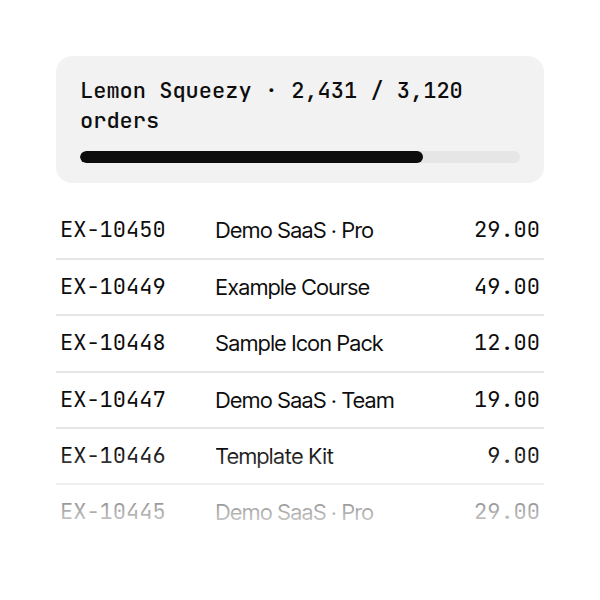
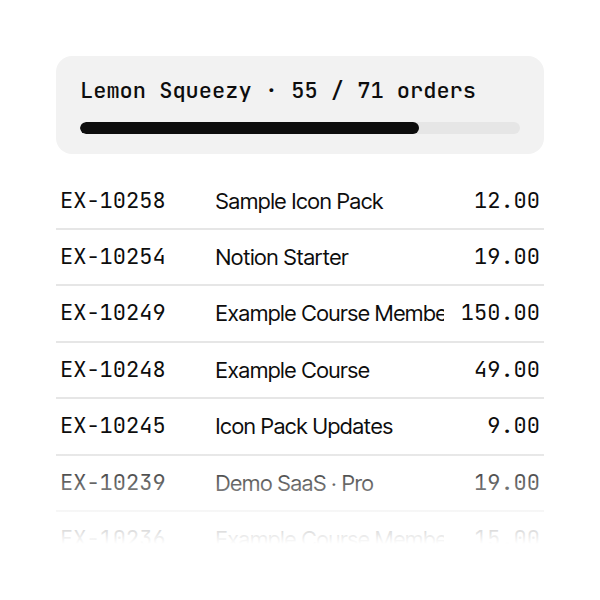
fix(site): skeptic follow-ups for mockups, hero reset, and launch copy
Re-render How it works crops from the #65 dataset, roll MRR on reset
without counting ghost rows as live, align +$ pills to mrrDelta, fix
EX-10256 Team amount and digit-strip half-glyphs, and qualify pre-launch
claims on changelog, blog, and docs.

Changed region(s): [[0.09, 0.3, 0.9, 0.87], [0.12, 0.12, 0.87, 0.27], [0.57, 0.78, 0.63, 0.87]]

diff --git a/addon/scripts/marketing-crops.html b/addon/scripts/marketing-crops.html
@@ -116,7 +116,7 @@
     }
     .bf-fill {
       height: 100%;
-      width: 78%;
+      width: 77%; /* 55/71 Lemon Squeezy orders from sample-dataset */
       background: var(--ink);
       border-radius: 999px;
     }
@@ -329,7 +329,7 @@
       <div class="src-list">
         <div class="src"><div>Lemon Squeezy<small>Connected</small></div><span class="src-state"><span class="dot">●</span> On</span></div>
         <div class="src"><div>Polar<small>Connected</small></div><span class="src-state"><span class="dot">●</span> On</span></div>
-        <div class="src"><div>Gumroad<small>Not connected</small></div><span class="src-state off"><span class="dot off">○</span> Off</span></div>
+        <div class="src"><div>Gumroad<small>Connected</small></div><span class="src-state"><span class="dot">●</span> On</span></div>
         <div class="src"><div>Stripe<small>Connected</small></div><span class="src-state"><span class="dot">●</span> On</span></div>
       </div>
     </div>
@@ -338,18 +338,18 @@
   <div class="crop step" id="crop-backfill">
     <div class="backfill">
       <div class="bf-status">
-        <div class="line">Lemon Squeezy · 2,431 / 3,120 orders</div>
+        <div class="line">Lemon Squeezy · 55 / 71 orders</div>
         <div class="bf-track"><div class="bf-fill"></div></div>
       </div>
       <div class="bf-rows">
-        <div class="bf-row"><span>EX-10450</span><span class="prod">Demo SaaS · Pro</span><span class="amt">29.00</span></div>
-        <div class="bf-row"><span>EX-10449</span><span class="prod">Example Course</span><span class="amt">49.00</span></div>
-        <div class="bf-row"><span>EX-10448</span><span class="prod">Sample Icon Pack</span><span class="amt">12.00</span></div>
-        <div class="bf-row"><span>EX-10447</span><span class="prod">Demo SaaS · Team</span><span class="amt">19.00</span></div>
-        <div class="bf-row"><span>EX-10446</span><span class="prod">Template Kit</span><span class="amt">9.00</span></div>
-        <div class="bf-row"><span>EX-10445</span><span class="prod">Demo SaaS · Pro</span><span class="amt">29.00</span></div>
-        <div class="bf-row"><span>EX-10444</span><span class="prod">Sample Icon Pack</span><span class="amt">12.00</span></div>
-        <div class="bf-row"><span>EX-10443</span><span class="prod">Example Course</span><span class="amt">19.00</span></div>
+        <div class="bf-row"><span>EX-10258</span><span class="prod">Sample Icon Pack</span><span class="amt">12.00</span></div>
+        <div class="bf-row"><span>EX-10254</span><span class="prod">Notion Starter</span><span class="amt">19.00</span></div>
+        <div class="bf-row"><span>EX-10249</span><span class="prod">Example Course Membership</span><span class="amt">150.00</span></div>
+        <div class="bf-row"><span>EX-10248</span><span class="prod">Example Course</span><span class="amt">49.00</span></div>
+        <div class="bf-row"><span>EX-10245</span><span class="prod">Icon Pack Updates</span><span class="amt">9.00</span></div>
+        <div class="bf-row"><span>EX-10239</span><span class="prod">Demo SaaS · Pro</span><span class="amt">19.00</span></div>
+        <div class="bf-row"><span>EX-10236</span><span class="prod">Example Course Membership</span><span class="amt">15.00</span></div>
+        <div class="bf-row"><span>EX-10233</span><span class="prod">Icon Pack Updates</span><span class="amt">9.00</span></div>
         <div class="bf-fade"></div>
       </div>
     </div>
@@ -361,21 +361,21 @@
         <span class="dot">●</span> SYNCED 10:02 · HOURLY
       </div>
       <div class="kpis">
-        <div class="kpi"><div class="lab">MRR</div><div class="val">$11.7k</div><span class="delta">▲ 4.2%</span></div>
-        <div class="kpi"><div class="lab">Net · 30d</div><div class="val">$3,624</div><span class="delta">▲ 6.1%</span></div>
-        <div class="kpi"><div class="lab">Active</div><div class="val">342</div><span class="delta">▲ 24</span></div>
-        <div class="kpi"><div class="lab">Churn</div><div class="val">1.9%</div><span class="delta">▼ 0.3</span></div>
+        <div class="kpi"><div class="lab">MRR</div><div class="val">$4,476</div><span class="delta">▲ 4.6%</span></div>
+        <div class="kpi"><div class="lab">Net · 30d</div><div class="val">$7,099</div><span class="delta">30D</span></div>
+        <div class="kpi"><div class="lab">Active</div><div class="val">233</div><span class="delta">3 trial</span></div>
+        <div class="kpi"><div class="lab">Churn</div><div class="val">2.2%</div><span class="delta">5 lost</span></div>
       </div>
       <div class="sec">MRR by source · 6 months</div>
       <div class="chart-wrap">
-        <!-- Stepping up L→R; stacked segments; ~64px bars on hairline baseline -->
+        <!-- May→Oct totals 3807…4476; stacked LS / Polar / Gum+Stripe -->
         <div class="bars">
-          <div class="bar-col"><div class="seg a" style="height:22px"></div><div class="seg b" style="height:10px"></div><div class="seg c" style="height:5px"></div><div class="bar-label">May</div></div>
-          <div class="bar-col"><div class="seg a" style="height:26px"></div><div class="seg b" style="height:12px"></div><div class="seg c" style="height:6px"></div><div class="bar-label">Jun</div></div>
-          <div class="bar-col"><div class="seg a" style="height:30px"></div><div class="seg b" style="height:13px"></div><div class="seg c" style="height:7px"></div><div class="bar-label">Jul</div></div>
-          <div class="bar-col"><div class="seg a" style="height:34px"></div><div class="seg b" style="height:14px"></div><div class="seg c" style="height:7px"></div><div class="bar-label">Aug</div></div>
-          <div class="bar-col"><div class="seg a" style="height:38px"></div><div class="seg b" style="height:15px"></div><div class="seg c" style="height:8px"></div><div class="bar-label">Sep</div></div>
-          <div class="bar-col"><div class="seg a" style="height:40px"></div><div class="seg b" style="height:16px"></div><div class="seg c" style="height:8px"></div><div class="bar-label">Oct</div></div>
+          <div class="bar-col"><div class="seg a" style="height:18px"></div><div class="seg b" style="height:22px"></div><div class="seg c" style="height:14px"></div><div class="bar-label">May</div></div>
+          <div class="bar-col"><div class="seg a" style="height:18px"></div><div class="seg b" style="height:24px"></div><div class="seg c" style="height:15px"></div><div class="bar-label">Jun</div></div>
+          <div class="bar-col"><div class="seg a" style="height:18px"></div><div class="seg b" style="height:25px"></div><div class="seg c" style="height:16px"></div><div class="bar-label">Jul</div></div>
+          <div class="bar-col"><div class="seg a" style="height:21px"></div><div class="seg b" style="height:25px"></div><div class="seg c" style="height:18px"></div><div class="bar-label">Aug</div></div>
+          <div class="bar-col"><div class="seg a" style="height:23px"></div><div class="seg b" style="height:25px"></div><div class="seg c" style="height:19px"></div><div class="bar-label">Sep</div></div>
+          <div class="bar-col"><div class="seg a" style="height:24px"></div><div class="seg b" style="height:26px"></div><div class="seg c" style="height:18px"></div><div class="bar-label">Oct</div></div>
         </div>
         <div class="chart-labels-spacer"></div>
       </div>

diff --git a/components/HeroDemo.tsx b/components/HeroDemo.tsx
@@ -47,7 +47,8 @@ function packetsAllowed() {
   return (
     typeof window !== "undefined" &&
     !prefersReducedMotion() &&
-    window.matchMedia("(min-width: 769px)").matches
+    // Match one-column hero breakpoint (≤900 hides the flying chip).
+    window.matchMedia("(min-width: 901px)").matches
   );
 }
 
@@ -191,8 +192,9 @@ export function HeroDemo() {
       const order = HERO_LANDINGS[index];
       if (!order) return;
       const s = sourceIndex(order.source);
-      const amount = order.amount;
       const mrrTick = order.mrrDelta ?? 0;
+      // Pill and counter share the same MRR delta (not order amount).
+      const pillDelta = mrrTick > 0 ? mrrTick : 0;
 
       if (transitioning.current) finishInstant();
 
@@ -204,7 +206,8 @@ export function HeroDemo() {
       setPulseStore(s);
       timers.current.push(window.setTimeout(() => setPulseStore(null), PULSE_MS));
 
-      const spawnPacket = packetsAllowed();
+      // Only fly a +$ chip when MRR actually moves — amount may differ (e.g. annual).
+      const spawnPacket = packetsAllowed() && pillDelta > 0;
       if (spawnPacket) {
         // Recompute from the active store; land beside the MRR number inside the card.
         const stage = stageRef.current;
@@ -215,7 +218,7 @@ export function HeroDemo() {
           packetPathRef.current = `M ${startX.toFixed(1)} ${startY.toFixed(1)} C ${midX.toFixed(1)} ${startY.toFixed(1)}, ${midX.toFixed(1)} ${endY.toFixed(1)}, ${endX.toFixed(1)} ${endY.toFixed(1)}`;
         }
         const pid = `p-${index}`;
-        setPackets([{ id: pid, amount, path: packetPathRef.current }]);
+        setPackets([{ id: pid, amount: pillDelta, path: packetPathRef.current }]);
         timers.current.push(
           window.setTimeout(() => {
             setPackets((prev) =>
@@ -291,9 +294,22 @@ export function HeroDemo() {
       rowsRef.current = HERO_SEED.map((o) => toHeroRow(o));
       transitioning.current = false;
       setActiveStores([false, false, false, false]);
-      mrrRef.current = START_MRR;
-      setMrr(START_MRR);
       setDelta(null);
+      // Roll MRR down over RESET_MS (digit strips animate); do not snap.
+      const from = mrrRef.current;
+      const steps = 14;
+      for (let i = 1; i <= steps; i++) {
+        timers.current.push(
+          window.setTimeout(() => {
+            const v =
+              i === steps
+                ? START_MRR
+                : Math.round(from + (START_MRR - from) * (i / steps));
+            mrrRef.current = v;
+            setMrr(v);
+          }, Math.round((RESET_MS * i) / steps)),
+        );
+      }
       requestAnimationFrame(() => setInstant(false));
       timers.current.push(window.setTimeout(() => setGhost(null), RESET_MS / 2));
       timers.current.push(window.setTimeout(thenRun, RESET_MS));
@@ -539,7 +555,10 @@ export function HeroDemo() {
                   <th style={{ textAlign: "right" }}>Amount</th>
                 </tr>
               </thead>
-              <tbody className={`hero-rows${ghost ? " is-crossfade-in" : ""}`}>
+              <tbody
+                className={`hero-rows${ghost ? " is-crossfade-in" : ""}`}
+                data-hero-live-rows
+              >
                 {rows.map((r, i) => {
                   const entering = enteringId === r.id;
                   // from: new at -1, others at i-1 (prior slots). to: index i.
@@ -562,23 +581,27 @@ export function HeroDemo() {
                       <td className="mono">{r.id}</td>
                       <td>{r.source}</td>
                       <td className="hero-col-product">{r.product}</td>
-                      <td className="n">${r.amount}</td>
+                      <td className="n">${r.amount.toFixed(2)}</td>
                     </tr>
                   );
                 })}
               </tbody>
               {ghost ? (
-                <tbody className="hero-rows hero-rows-ghost" aria-hidden="true">
+                <tbody
+                  className="hero-rows-ghost"
+                  aria-hidden="true"
+                  data-hero-ghost-rows
+                >
                   {ghost.map((r, i) => (
                     <tr
                       key={`g-${r.id}`}
-                      className="hero-row"
+                      className="hero-ghost-row"
                       style={{ "--i": i } as CSSProperties}
                     >
                       <td className="mono">{r.id}</td>
                       <td>{r.source}</td>
                       <td className="hero-col-product">{r.product}</td>
-                      <td className="n">${r.amount}</td>
+                      <td className="n">${r.amount.toFixed(2)}</td>
                     </tr>
                   ))}
                 </tbody>

diff --git a/app/globals.css b/app/globals.css
@@ -930,9 +930,10 @@ tr.reveal.reveal-rise {
   display: inline-flex;
   align-items: flex-start;
   user-select: none;
-  /* Extra lead so digit strips do not clip glyph tops. */
-  --digit-h: 1.12em;
+  /* Integer px slot so translateY never lands on a half-glyph (esp. 375). */
+  --digit-h: 40px;
   line-height: var(--digit-h);
+  height: var(--digit-h);
 }
 
 .hero-mrr-num .d {
@@ -944,6 +945,8 @@ tr.reveal.reveal-rise {
   vertical-align: top;
   font-variant-numeric: tabular-nums;
   text-align: center;
+  /* Isolate each strip so subpixel compositing cannot bleed half digits. */
+  contain: strict;
 }
 
 .hero-mrr-num .d-strip {
@@ -961,6 +964,7 @@ tr.reveal.reveal-rise {
   height: var(--digit-h);
   line-height: var(--digit-h);
   font-variant-numeric: tabular-nums;
+  text-align: center;
 }
 
 .hero-mrr-num .s {
@@ -1040,7 +1044,8 @@ tr.reveal.reveal-rise {
 
 .hero-sheet thead tr {
   display: grid;
-  grid-template-columns: 5.5rem minmax(0, 0.9fr) minmax(0, 1.35fr) 4.5rem;
+  /* Amount col fits $150.00 (7ch mono) without clipping at 375/1280. */
+  grid-template-columns: 5.5rem minmax(0, 0.85fr) minmax(0, 1.25fr) 5.75rem;
   height: 30px;
   background: var(--c-surface-2);
   border-bottom: 1px solid var(--c-border);
@@ -1071,7 +1076,9 @@ tr.reveal.reveal-rise {
   width: 100%;
 }
 
+/* Ghost overlay only — not a live .hero-rows layer (avoids 18-row DOM counts). */
 .hero-sheet tbody.hero-rows-ghost {
+  display: block;
   position: absolute;
   left: 0;
   right: 0;
@@ -1082,6 +1089,20 @@ tr.reveal.reveal-rise {
   animation: hero-ghost-out 360ms var(--ease-standard) forwards;
   pointer-events: none;
   z-index: 2;
+}
+
+.hero-sheet tbody.hero-rows-ghost tr.hero-ghost-row {
+  display: grid;
+  grid-template-columns: 5.5rem minmax(0, 0.85fr) minmax(0, 1.25fr) 5.75rem;
+  height: 36px;
+  position: absolute;
+  left: 0;
+  right: 0;
+  top: 0;
+  width: 100%;
+  box-sizing: border-box;
+  transform: translateY(calc(var(--i, 0) * 36px));
+  background: var(--c-surface);
 }
 
 /* Live layer fades in under the ghost so both are never at full opacity. */
@@ -1109,7 +1130,7 @@ tr.reveal.reveal-rise {
 
 .hero-sheet tbody tr {
   display: grid;
-  grid-template-columns: 5.5rem minmax(0, 0.9fr) minmax(0, 1.35fr) 4.5rem;
+  grid-template-columns: 5.5rem minmax(0, 0.85fr) minmax(0, 1.25fr) 5.75rem;
   height: 36px;
   position: absolute;
   left: 0;
@@ -1150,8 +1171,10 @@ tr.reveal.reveal-rise {
   text-align: right;
   font-family: var(--font-mono);
   font-variant-numeric: tabular-nums;
-  overflow: visible;
+  /* Stay inside the amount track; tbody overflow:hidden would clip overflow:visible. */
+  overflow: hidden;
   text-overflow: clip;
+  padding-left: var(--space-2);
 }
 
 .hero-sheet td.hero-col-product {
@@ -1298,12 +1321,18 @@ tr.reveal.reveal-rise {
   }
 
   .hero-sheet thead tr,
-  .hero-sheet tbody tr {
-    grid-template-columns: 5.5rem minmax(0, 1fr) 4.5rem;
+  .hero-sheet tbody tr,
+  .hero-sheet tbody.hero-rows-ghost tr.hero-ghost-row {
+    grid-template-columns: 5.5rem minmax(0, 1fr) 5.75rem;
   }
 
   .hero-mrr {
     padding-right: 0;
+  }
+
+  .hero-mrr-num {
+    /* Keep integer slot height when KPI size is unchanged on phone. */
+    --digit-h: 40px;
   }
 
   .hero-mrr-num .d-strip {

diff --git a/app/docs/troubleshooting/page.tsx b/app/docs/troubleshooting/page.tsx
@@ -1,5 +1,6 @@
 import type { Metadata } from "next";
 import Link from "next/link";
+import { LaunchAvailabilityNote } from "@/components/LaunchAvailabilityNote";
 import { brand, siteHostname } from "@/lib/brand";
 import { siteConfig } from "@/lib/site";
 
@@ -14,6 +15,7 @@ export default function TroubleshootingPage() {
     <main className="docs-page">
       <p className="eyebrow">Help</p>
       <h1>Troubleshooting</h1>
+      <LaunchAvailabilityNote />
       <div className="prose">
         <h2>Tabs are empty after Backfill</h2>
         <ul>
@@ -30,7 +32,8 @@ export default function TroubleshootingPage() {
         <h2>Rate limited</h2>
         <p>
           Large first backfills can hit source API limits. Wait for the cooldown suggested in the
-          status line, then resume. Scheduled sync on Pro uses smaller incremental windows.
+          status line, then resume. At launch, scheduled sync on Pro uses smaller incremental
+          windows.
         </p>
         <h2>License not recognized</h2>
         <ul>

diff --git a/__tests__/sample-page.test.ts b/__tests__/sample-page.test.ts
@@ -54,7 +54,7 @@ describe("/sample acceptance data", () => {
   it("sample-dataset.json sha256 matches the design pin", () => {
     const buf = readFileSync(join(process.cwd(), "lib/sample-dataset/sample-dataset.json"));
     expect(createHash("sha256").update(buf).digest("hex")).toBe(
[2 lines of base64/hex data omitted]
     );
   });
 

diff --git a/app/docs/page.tsx b/app/docs/page.tsx
@@ -19,7 +19,7 @@ const quickstart = [
   {
     n: "01",
     title: "Install",
-    body: "Add RevenueSheet from the Workspace Marketplace (or join the launch list until listing day).",
+    body: "Join the launch list until listing day, then add RevenueSheet from the Workspace Marketplace.",
     href: "/#launch",
   },
   {
